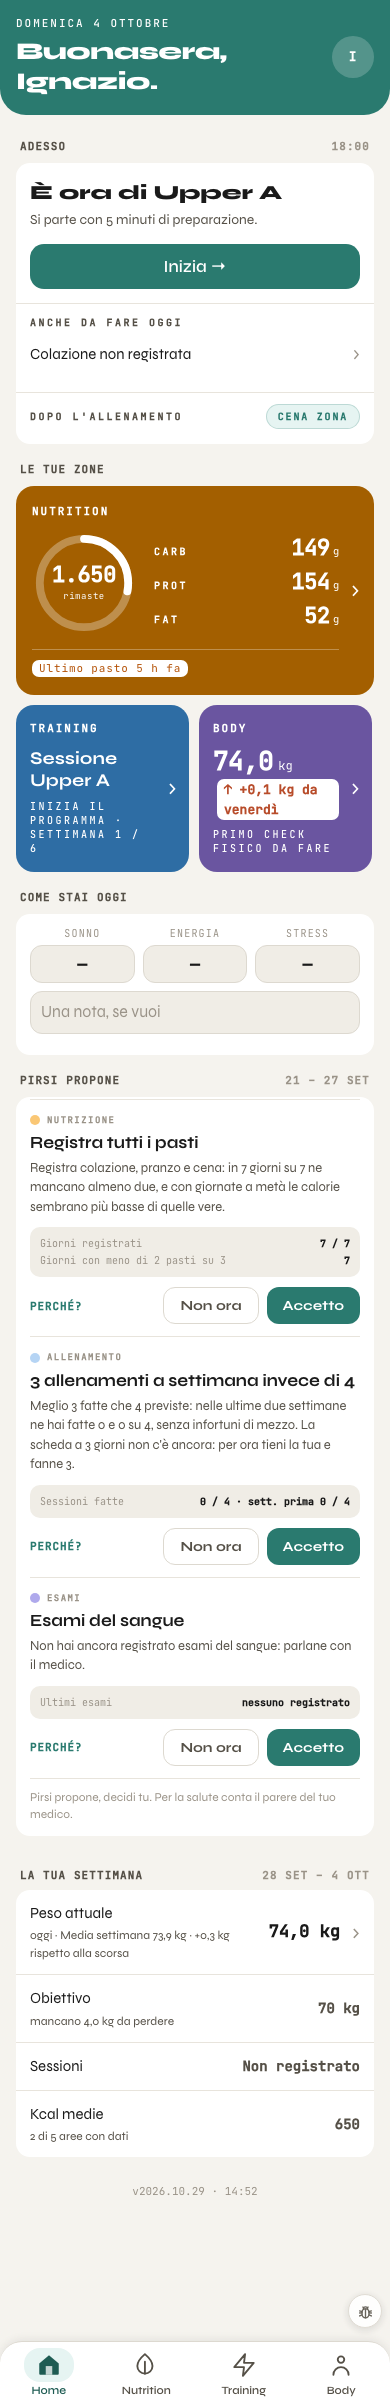
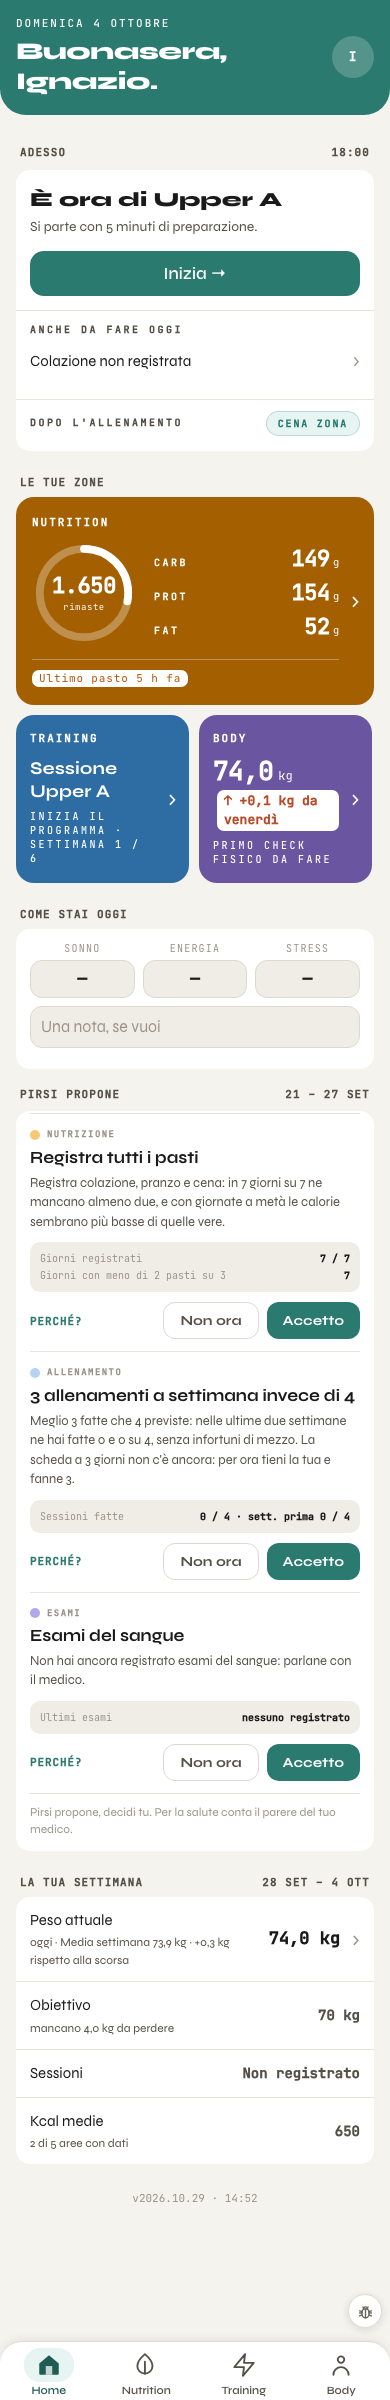
fix(home): giro 1, ordine vero nel DOM e titoli di sezione nell'HTML (+57 -35, 4 file)
Dalla revisione della Regia sul giro 1 della Home (veste accesa):
1. home.js sotto html.v5 mette le card nell'ordine in cui si vedono, con i
titoli Adesso, Le tue zone e Come stai oggi come h2 fuori dai riquadri; via
tutti gli order dal CSS. A veste spenta l'HTML resta quello di prima.
2. Etichette in --t2: data di Pirsi, ora di Adesso, date della settimana.
3. «PROSSIMA AZIONE» e il titolo dentro Come stai non si mostrano piu' (prima
restavano nel DOM a font-size 0 con il testo scritto dal CSS).
4. «Fatto» e «Modifica» di Come stai toccabili per 44 px.

prova_veste 39/39 (ordine nel DOM, titoli nell'HTML, tutti i pezzi delle
etichette >= 4,5:1, «Fatto» >= 44 px). Verdi: prova_pagina_divisa,
prova_home_030, prova_avvio_home, prova_ordine_caricamento, prova_quadro_vista,
prova_quadro_peso, prova_pirsi_card, prova_come_stai, prova_come_stai_parole,
prova_prossima_azione, prova_da_fare_oggi, prova_browser; funzioni_morte 2.
prova_stile in Chrome ancora in corso al momento del commit (Regia: si consegna
senza aspettarla).

diff --git a/tools/banco/prova_veste.js b/tools/banco/prova_veste.js
@@ -37,7 +37,7 @@ function tabelle(scenario = 'base'){
     profiles:[{ id:U, first_name:'Ignazio', m2_skipped:true, sesso:'M', eta:45, altezza_cm:178, weight_kg:74, goal_weight_kg:70, obiettivo:'ricomposizione',
       target_kcal:2300, target_protein:170, target_carbs:220, target_fat:75, giorni_allenamento:4, tipo_allenamento:'casa', attrezzatura:['elastico'],
       train_start_date:'2026-09-21', usa_training:true, created_at:'2026-05-01T08:00:00Z' }],
-    meals, meal_items:[], weight_logs:pesi, supplements_log:[], fasting_days:[], daily_log:[], app_errors:[], supplements:[], nutrilite_catalog:[],
+    meals, meal_items:[], weight_logs:pesi, supplements_log:[], fasting_days:[], daily_log: scenario === 'giu' ? [{ id:'d0', user_id:U, date:OGGI, sleep_hours:7, energy:4, stress:2 }] : [], app_errors:[], supplements:[], nutrilite_catalog:[],
     esercizi_catalog:catalogo, schede_utente:[{ id:'sc1', user_id:U, attiva:true, blocco_n:1, scheda:{ obiettivo:'ricomposizione', sessioni:[
       { id:'upperA', name:'Upper A', type:'Forza', rir:2, warmup:[], exercises:['EX001','EX020'].map(ex) },
       { id:'lowerA', name:'Lower A', type:'Forza', rir:2, warmup:[], exercises:['EX040','EX050'].map(ex) }] } }],
@@ -101,6 +101,7 @@ function fotografa(win){
   for(const sc of ['base', 'su', 'giu']){
     const b = await apri({ scenario:sc });
     if(sc === 'base') pagine.spenta = fotografa(b.win);
+    if(sc === 'giu') b.win.eval('ST').comeStaiAperta = OGGI;   // Come stai compilato e ancora aperto: c'è «Fatto»
     if(sc !== 'base'){ b.win._nutrProssimoDalPiano = () => ({ slot:'cena', piatto:'Salmone e patate', descrizione:'Salmone e patate' }); b.win._nutrOreDallUltimo = () => 5; }
     // accesa: la classe come la mette lo script in testa, poi la Home ridisegnata (la settimana a righe la disegna home.js)
     b.win.document.documentElement.classList.add('v5'); b.win.renderHomeV2();
@@ -127,9 +128,11 @@ trainW:(document.querySelector('#home-card-training')||{}).offsetWidth||0,riga:(
 testi:tutti.length,peggiori:tutti.filter(x=>x.c<4.5),pesata:di('.home-v2-body-pesata'),registra:di('.home-v2-nutr-btn'),oltre:di('.home-v2-donut-num[style*="B45309"]'),
 macroOltre:document.querySelectorAll('.home-v2-macro-value[style*="B45309"]').length,macroOltreC:di('.home-v2-macro-value[style*="B45309"]'),delta:di('.home-v2-body-delta'),
 deltaColore:g('.home-v2-body-delta','color'),
-ordine:['.home-v2-header','.home-v2-action','.home-v2-card[onclick*="showPage(\\'oggi\\')"]','#home-card-training','.cs-card','.cp-card','.wp5'].map(x=>{const e=document.querySelector(x);return e?Math.round(e.getBoundingClientRect().top):null;}),
+ordine:(()=>{const tutti=[...document.querySelectorAll('*')];return ['.home-v2-header','.sez5','.home-v2-action','.home-v2-card[onclick*="showPage(\\'oggi\\')"]','#home-card-training','.cs-card','.cp-card','.wp5'].map(x=>{const e=document.querySelector(x);return e?tutti.indexOf(e):null;});})(),
+sez5:[...document.querySelectorAll('.sez5 > span:first-child')].map(e=>e.textContent.trim()),
+testaAzione:g('.home-v2-action-head','display'),fatto:(()=>{const e=[...document.querySelectorAll('.cs-link')].find(x=>/Fatto/.test(x.textContent));return e?Math.round(e.getBoundingClientRect().height):null;})(),
 wp5:document.querySelectorAll('.wp5-riga').length,freccia:di('.wp5-freccia'),wpVecchia:!!document.querySelector('.wp-hero-card'),
-etichette:[...document.querySelectorAll('.home-v2-action-head span:first-child,.cs-titolo,.cp-title-main,.wp5-sez')].map(e=>{const p=e.matches('.home-v2-action-head span:first-child')?'::after':null;const c=rgb(getComputedStyle(e,p).color),f=fondo(e);const a=lum(c),b=lum(f);return {t:(p?getComputedStyle(e,p).content:e.textContent).trim().slice(0,24),c:Math.round((Math.max(a,b)+.05)/(Math.min(a,b)+.05)*100)/100};}),
+etichette:[...document.querySelectorAll('.sez5 span,.cp-head > *,.wp5-sez,.wp5-sez span')].map(e=>({t:e.textContent.trim().slice(0,24),c:Math.round(contrasto(e)*100)/100})),
 righe5:[...document.querySelectorAll('.wp5-riga *:not(.wp5-freccia)')].filter(e=>[...e.childNodes].some(n=>n.nodeType===3&&n.textContent.trim())).map(e=>({t:e.textContent.trim().slice(0,24),c:Math.round(contrasto(e)*100)/100})),avviso:di('.home-v2-nutr-avviso'),oltreColore:g('.home-v2-donut-num','color'),anello:g('.home-v2-donut-svg circle + circle','strokeDasharray')};
 document.documentElement.setAttribute('data-misura',JSON.stringify(r));},300));</script>`;
   const scrivi = (nome, html, v5) => {
@@ -172,11 +175,13 @@ document.documentElement.setAttribute('data-misura',JSON.stringify(r));},300));<
       atteso('«Ultimo pasto N h fa» nel colore «oltre», leggibile', su.avviso >= 4.5, true);
       // Giro 1 della Home: l'ordine nuovo e la settimana a righe
       const crescente = (v) => v.every(x => x != null) && v.every((x, i) => !i || x > v[i - 1]);
-      atteso('giro 1, ordine: testata · Adesso · Nutrition · Training · Come stai · Pirsi · settimana', crescente(a.ordine), true);
-      atteso('giro 1, spenta: l\'ordine di prima (Come stai sopra la prossima azione) e la settimana a card', [s.ordine[4] < s.ordine[1], s.wp5, s.wpVecchia], [true, 0, true]);
+      atteso('giro 1, ordine nel DOM (quello che leggono tastiera e VoiceOver): testata · Adesso · Nutrition · Training · Come stai · Pirsi · settimana', crescente(a.ordine), true);
+      atteso('giro 1, spenta: l\'ordine di prima (Come stai prima della prossima azione), niente titoli nuovi, la settimana a card', [s.ordine[5] < s.ordine[2], s.ordine[1], s.wp5, s.wpVecchia], [true, null, 0, true]);
+      atteso('giro 1, accesa: i titoli di sezione scritti nell\'HTML', a.sez5, ['Adesso', 'Le tue zone', 'Come stai oggi']);
+      atteso('giro 1, accesa: «PROSSIMA AZIONE» dentro il riquadro non c\'è più (non si legge due volte)', a.testaAzione, 'none');
       atteso('giro 1, accesa: la settimana a righe (peso, obiettivo, sessioni, kcal), la card di prima no', [a.wp5, a.wpVecchia], [4, false]);
-      atteso('giro 1, accesa: i titoli di sezione (Adesso, Come stai, Pirsi, settimana) almeno 4,5:1', a.etichette.filter(x => x.c < 4.5), []);
-      atteso('giro 1, accesa: titoli di sezione con le parole giuste', a.etichette.map(x => x.t.replace(/"/g, '').toUpperCase().split(/\s+/).slice(0, 2).join(' ')).sort(), ['ADESSO', 'COME STAI', 'LA TUA', 'PIRSI PROPONE']);
+      atteso(`giro 1, accesa: ogni pezzo dei titoli di sezione (${a.etichette.length}, anche le date e l'ora) almeno 4,5:1`, a.etichette.filter(x => x.c < 4.5), []);
+      atteso('giro 1, Come stai compilato: «Fatto» alto almeno 44 px', giu.fatto >= 44, true);
       atteso('giro 1, accesa: la freccia della settimana è un segno, non un testo: almeno 3:1', a.freccia >= 3, true);
       atteso(`giro 1, accesa: ogni testo della settimana a righe almeno 4,5:1 (${a.righe5.length} testi)`, a.righe5.filter(x => x.c < 4.5), []);
     }

diff --git a/app/stile.css b/app/stile.css
@@ -2680,25 +2680,16 @@ html.v5 #home-card-training + .home-v2-card[onclick*="showPage('body')"] .home-v
 /* ── Giro 1 della Home (schizzo approvato da Ignazio il 29/10/2026, docs/prototipi/giro1_home/): stessi dati e stessi tasti,
    cambiano ordine, gerarchia, spazi e caratteri. Adesso · Le tue zone · Come stai oggi · Pirsi propone · La tua settimana ── */
 html.v5 .home-v2-wrap{gap:10px;}
-html.v5 .home-v2-header{order:0;padding-top:calc(env(safe-area-inset-top) + 16px);padding-bottom:18px;}
+html.v5 .home-v2-header{padding-top:calc(env(safe-area-inset-top) + 16px);padding-bottom:18px;}
 html.v5 .home-v2-greeting{font-size:24px;letter-spacing:-.5px;}
-html.v5 .home-v2-action{order:1;}
-html.v5 .home-v2-card[onclick*="showPage('oggi')"]{order:2;}
-html.v5 #home-card-training{order:3;}
-html.v5 .home-v2-card[onclick*="showPage('body')"]{order:4;}
-html.v5 .cs-card{order:5;}
-html.v5 .cp-card{order:6;}
-html.v5 .wp5{order:7;}
-html.v5 .home-v2-wrap > div:not([class]){order:8;}
-/* un solo titolo di sezione, fuori dai riquadri: mono 11 px maiuscolo, 22 px sopra */
-html.v5 :is(.home-v2-action,.home-v2-card[onclick*="showPage('oggi')"],.cs-card,.cp-card){position:relative;margin-top:32px;}
-html.v5 :is(.home-v2-action-head,.cs-testa,.cp-head){position:absolute;top:-24px;left:4px;right:4px;margin:0;}
-html.v5 :is(.home-v2-action-head,.cs-titolo,.cp-title-main,.cp-week){font-family:var(--font-mono);font-size:11px;font-weight:700;letter-spacing:.1em;line-height:1.3;text-transform:uppercase;color:var(--t2);}
-html.v5 .cp-week{font-weight:600;color:var(--t3);}
-html.v5 .home-v2-action-head span:first-child{font-size:0;letter-spacing:0;}
-html.v5 .home-v2-action-head span:first-child::after{content:'Adesso';font-size:11px;letter-spacing:.1em;}
-html.v5 .home-v2-action-head span:last-child{color:var(--t3);font-weight:600;}
-html.v5 .home-v2-card[onclick*="showPage('oggi')"]::before{content:'Le tue zone';position:absolute;top:-24px;left:4px;font-family:var(--font-mono);font-size:11px;font-weight:700;letter-spacing:.1em;line-height:1.3;text-transform:uppercase;color:var(--t2);}
+/* un solo titolo di sezione, fuori dai riquadri: mono 11 px maiuscolo in --t2. Adesso, Le tue zone e Come stai oggi li scrive home.js
+   (h2.sez5, nell'ordine in cui si leggono); il titolo di Pirsi è quello della sua card, portato sopra il riquadro */
+html.v5 .sez5{display:flex;justify-content:space-between;align-items:baseline;margin:14px 4px -2px;}
+html.v5 :is(.sez5,.cp-title-main,.cp-week,.wp5-sez){font-family:var(--font-mono);font-size:11px;font-weight:700;letter-spacing:.1em;line-height:1.3;text-transform:uppercase;color:var(--t2);}
+html.v5 :is(.sez5-dx,.cp-week,.wp5-sez span){font-weight:600;}
+html.v5 :is(.home-v2-action-head,.cs-titolo){display:none;}
+html.v5 .cp-card{position:relative;margin-top:32px;}
+html.v5 .cp-head{position:absolute;top:-24px;left:4px;right:4px;margin:0;}
 /* Adesso: titolo grande, «Inizia» a tutta larghezza, sotto le righe del da fare */
 html.v5 .home-v2-action{padding:16px 14px 4px;}
 html.v5 .home-v2-action-title{font-size:20px;font-weight:800;}
@@ -2710,7 +2701,9 @@ html.v5 .home-v2-action-next{min-height:48px;justify-content:space-between;}
 html.v5 :is(.home-v2-dafare-eb,.home-v2-action-next-eb){color:var(--t2);}
 html.v5 .home-v2-dafare-eb{margin:0;padding-top:12px;}
 /* Come stai oggi: le tre caselle più basse */
-html.v5 .cs-card{padding:12px 14px 14px;}
+html.v5 .cs-card{padding:8px 14px 14px;}
+html.v5 .cs-testa{justify-content:flex-end;margin-bottom:4px;}
+html.v5 .cs-link{min-height:44px;min-width:44px;padding:0 4px;}
 html.v5 .cs-valore{min-height:38px;padding:3px 4px;border-radius:12px;}
 html.v5 .cs-nota{margin-top:8px;border-radius:12px;}
 /* Pirsi: ogni proposta una riga dell'elenco, «Perché?» a sinistra, «Non ora» e «Accetto» a destra */
@@ -2719,13 +2712,12 @@ html.v5 .cp-item{display:flex;flex-wrap:wrap;align-items:center;border-top-color
 html.v5 .cp-item > *{width:100%;}
 html.v5 .cp-item > .cp-why{width:auto;margin:10px auto 0 0;}
 html.v5 .cp-item > .cp-actions{width:auto;margin-top:10px;flex-direction:row-reverse;}
-html.v5 .cp-item > .cp-why-text{order:1;}
+html.v5 .cp-item > .cp-why-text + .cp-actions{margin-left:auto;}
 html.v5 :is(.cp-yes,.cp-no){flex:none;padding:9px 16px;border-radius:12px;}
 html.v5 .cp-note{border-top-color:var(--s3);}
 /* La tua settimana: un elenco a righe in fondo (l'HTML a righe lo disegna home.js solo con la veste accesa) */
-html.v5 .wp5{margin-top:22px;cursor:pointer;}
-html.v5 .wp5-sez{display:flex;justify-content:space-between;margin:0 4px 8px;font-family:var(--font-mono);font-size:11px;font-weight:700;letter-spacing:.1em;line-height:1.3;text-transform:uppercase;color:var(--t2);}
-html.v5 .wp5-sez span{font-weight:600;color:var(--t3);}
+html.v5 .wp5{margin-top:14px;cursor:pointer;}
+html.v5 .wp5-sez{display:flex;justify-content:space-between;margin:0 4px 8px;}
 html.v5 .wp5-gruppo{background:var(--s1);border-radius:14px;overflow:hidden;}
 html.v5 .wp5-riga{display:flex;align-items:center;flex-wrap:wrap;gap:4px 12px;min-height:48px;padding:12px 14px;border-top:1px solid var(--s3);font-family:var(--font-sans);font-size:15px;color:var(--t1);}
 html.v5 .wp5-riga:first-child{border-top:0;}
@@ -2734,4 +2726,4 @@ html.v5 .wp5-nome small{display:block;margin-top:2px;font-size:12px;color:var(--
 html.v5 .wp5-val{font-family:var(--font-mono);font-size:14px;font-weight:600;color:var(--t2);}
 html.v5 .wp5-riga:first-child .wp5-val{font-size:17px;color:var(--t1);}
 html.v5 .wp5-freccia{color:var(--t3);font-size:20px;line-height:1;}
-html.v5 .wp5 .wp-go-inline{order:1;margin:0;}
+html.v5 .wp5 .wp-go-inline{margin:0;}

diff --git a/app/home.js b/app/home.js
@@ -693,7 +693,7 @@ function _wpHomeRigheV5(cur, pic){
   }
   return `
     <div class="wp5" onclick="openQuadro()">
-      <div class="wp5-sez">La tua settimana <span>${_wpRange(cur)}</span></div>
+      <h2 class="wp5-sez">La tua settimana <span>${_wpRange(cur)}</span></h2>
       <div class="wp5-gruppo">${righe}</div>
     </div>`;
 }
@@ -1481,8 +1481,7 @@ function _renderHomeCards(){
     </div>`;
 
   // ── Inject ──
-  document.getElementById('page-home').innerHTML = `
-    <div class="home-v2-wrap">
+  const testaHome = `
       ${typeof installaHintHTML === 'function' ? installaHintHTML() : ''}
       <div class="home-v2-header">
         <div class="home-v2-header-text">
@@ -1490,7 +1489,33 @@ function _renderHomeCards(){
           <div class="home-v2-greeting">${esc(greeting)}</div>
         </div>
         <button class="home-v2-avatar" onclick="openSettingsModal()" title="Impostazioni profilo">${esc(initials)}</button>
-      </div>
+      </div>`;
+  // La veste nuova, Giro 1 della Home (schizzo approvato da Ignazio il 29/10/2026): con html.v5 le stesse card in un altro ordine,
+  // con i titoli di sezione scritti qui, fuori dai riquadri, così tastiera e lettore di schermo leggono quello che si vede.
+  // Adesso · Le tue zone · Come stai oggi · Pirsi propone · La tua settimana. A veste spenta l'HTML è quello di prima.
+  if(document.documentElement.classList.contains('v5')){
+    const sez = (titolo, destra) => `<h2 class="sez5"><span>${titolo}</span>${destra ? `<span class="sez5-dx">${destra}</span>` : ''}</h2>`;
+    document.getElementById('page-home').innerHTML = `
+    <div class="home-v2-wrap">
+      ${testaHome}
+      ${sez('Adesso', oraStr)}
+      ${actionPanel}
+      ${sez('Le tue zone')}
+      ${nutritionCard}
+      ${trainingCard}
+      ${bodyCard}
+      ${sez('Come stai oggi')}
+      ${_comeStaiHTML()}
+      ${_cpHomeCardHTML()}
+      ${_wpHomeCardHTML()}
+      ${versionFooter()}
+    </div>
+  `;
+    return;
+  }
+  document.getElementById('page-home').innerHTML = `
+    <div class="home-v2-wrap">
+      ${testaHome}
       ${_comeStaiHTML()}
       ${_wpHomeCardHTML()}
       ${_cpHomeCardHTML()}
